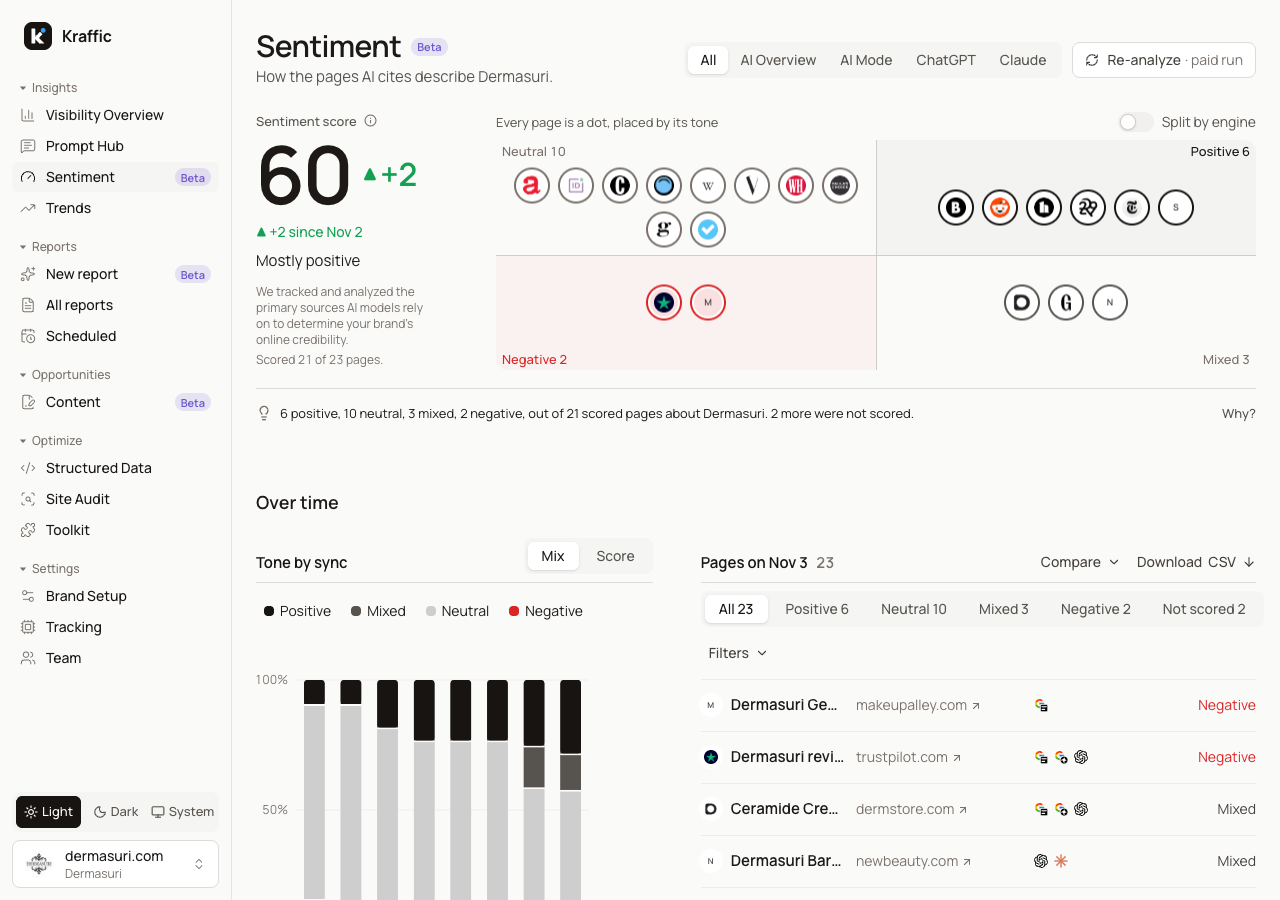
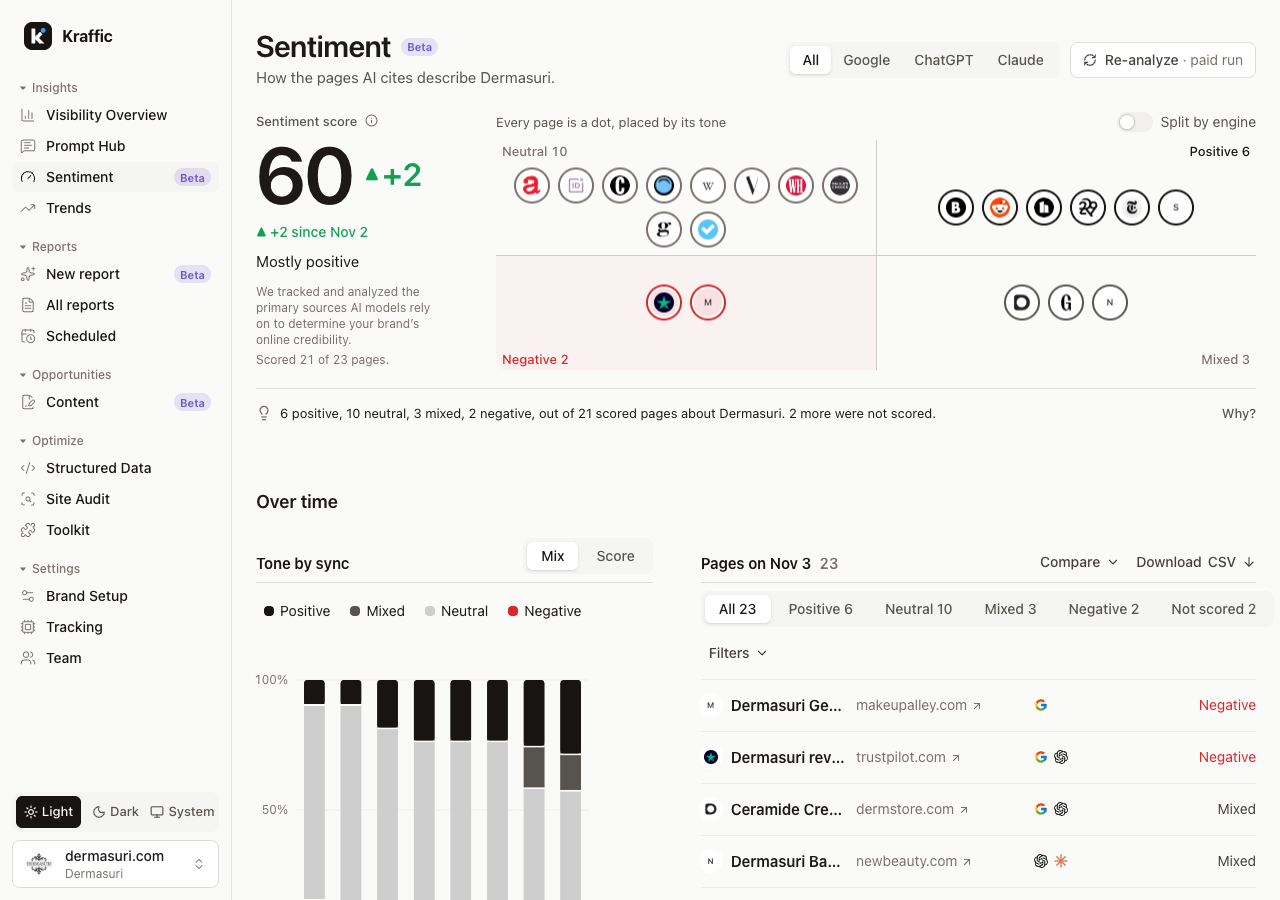
Sentiment keeps one Google engine (owner, 2026-11-04): its reputation scan covers Google, ChatGPT and Claude, so the AI Overview / AI Mode split (396d783) comes off the Sentiment page and its data: one "Google" tab with the plain Google mark, pages and themes on Google / ChatGPT / Claude again. The 

diff --git a/src/components/dashboard/VisibilityHistory.jsx b/src/components/dashboard/VisibilityHistory.jsx
@@ -268,10 +268,10 @@ function TopValueLabel({ x, y, width = 0, value }) {
 }
 
 // the legend chips show every name in full (no ellipsis). Wider screens: 14px labels; if they don't fit on one
-// line, 13px; if they still don't, the row wraps to a second line (the chart takes the height that's left). Measured
+// line, 13px; then 13px with tighter padding and gaps (1280 with 4 brands); if they still don't, the row wraps to a second line (the chart takes the height that's left). Measured
 // from off-screen copies at both sizes, again on resize and once the web fonts load. Phones: the chips scroll
 // sideways, with a soft fade on the side(s) that have more. The "All N brands" menu stays at the end either way.
-const CHIP_GAP = { md: 16, sm: 12 }
+const CHIP_GAP = { md: 16, sm: 12, xs: 6 }
 function ChipRow({ mobile, items, chip, menu, measureKey }) {
   const box = useRef(null)
   const probe = useRef(null)
@@ -289,12 +289,14 @@ function ChipRow({ mobile, items, chip, menu, measureKey }) {
       const span = (w, size) => w.reduce((a, b) => a + b, 0) + CHIP_GAP[size] * Math.max(0, w.length - 1)
       const md = widths('md')
       const sm = widths('sm')
+      const xs = widths('xs')
       const more = menuRef.current ? menuRef.current.getBoundingClientRect().width + CHIP_GAP.sm : 0
       const avail = el.clientWidth - more
       // whole names always: 14px, else 13px, else the row wraps to a second line (never cut)
       const next = span(md, 'md') <= avail ? { size: 'md', wrap: false }
         : span(sm, 'sm') <= avail ? { size: 'sm', wrap: false }
-          : { size: 'sm', wrap: true }
+          : span(xs, 'xs') <= avail ? { size: 'xs', wrap: false }
+            : { size: 'sm', wrap: true }
       setFit((f) => (f.size === next.size && f.wrap === next.wrap ? f : next))
     }
     measure()
@@ -319,10 +321,10 @@ function ChipRow({ mobile, items, chip, menu, measureKey }) {
   const fade = mobile && (edges.left || edges.right)
     ? `linear-gradient(to right, ${edges.left ? 'transparent' : '#000'}, #000 24px, #000 calc(100% - 24px), ${edges.right ? 'transparent' : '#000'})`
     : undefined
-  const small = mobile ? false : fit.size !== 'md'
+  const small = mobile ? false : fit.size === 'xs' ? 'xs' : fit.size !== 'md'
   return (
     <div ref={box} style={fade ? { maskImage: fade, WebkitMaskImage: fade } : undefined}
-      className={`relative flex min-h-9 min-w-0 flex-1 items-center ${small ? 'gap-x-3' : 'gap-x-4'} ${mobile ? 'overflow-x-auto overscroll-x-contain [scrollbar-width:none] [&::-webkit-scrollbar]:hidden' : fit.wrap ? 'flex-wrap gap-y-1' : ''}`}>
+      className={`relative flex min-h-9 min-w-0 flex-1 items-center ${small === 'xs' ? 'gap-x-1.5' : small ? 'gap-x-3' : 'gap-x-4'} ${mobile ? 'overflow-x-auto overscroll-x-contain [scrollbar-width:none] [&::-webkit-scrollbar]:hidden' : fit.wrap ? 'flex-wrap gap-y-1' : ''}`}>
       {items.map((s) => chip(s, small))}
       {menu && <span ref={menuRef} className="inline-flex shrink-0">{menu}</span>}
       {/* off-screen copies at both sizes, for the widths; clipped, so they never widen the page */}
@@ -331,6 +333,7 @@ function ChipRow({ mobile, items, chip, menu, measureKey }) {
           <div ref={probe} inert="" className="invisible absolute left-0 top-0 flex w-max whitespace-nowrap">
             {items.map((s) => <span key={`md-${s.key}`} data-probe="md" className="inline-flex">{chip(s, false, true)}</span>)}
             {items.map((s) => <span key={`sm-${s.key}`} data-probe="sm" className="inline-flex">{chip(s, true, true)}</span>)}
+            {items.map((s) => <span key={`xs-${s.key}`} data-probe="xs" className="inline-flex">{chip(s, 'xs', true)}</span>)}
           </div>
         </div>
       )}
@@ -804,7 +807,7 @@ export default function VisibilityHistory({ dataset: given = null, syncUrl = tru
     const lastOne = shown && series.length === 1 // the last visible series can't be hidden
     if (probe) {
       return (
-        <span key={s.key} className={`inline-flex h-8 shrink-0 items-center gap-2 whitespace-nowrap ${isLine ? 'px-2' : 'px-3'} font-medium ${small ? 'text-[13px] leading-[18px]' : 'text-[14px] leading-5'}`}>
+        <span key={s.key} className={`inline-flex h-8 shrink-0 items-center ${small === 'xs' ? 'gap-1.5 px-1' : `gap-2 ${isLine ? 'px-2' : 'px-3'}`} whitespace-nowrap font-medium ${small ? 'text-[13px] leading-[18px]' : 'text-[14px] leading-5'}`}>
           {marker(s, shown)}{brandName(s.label)}
         </span>
       )
@@ -821,10 +824,10 @@ export default function VisibilityHistory({ dataset: given = null, syncUrl = tru
                 onFocus={() => shown && setHovered(s.key)}
                 onBlur={() => setHovered(null)}
                 className={isLine
-                  ? `inline-flex h-8 min-w-0 shrink-0 items-center gap-2 whitespace-nowrap rounded-md px-2 ${small ? 'text-[13px] leading-[18px]' : 'text-[14px] leading-5'} outline-none transition-colors duration-150 hover:bg-[var(--tint)] focus-visible:ring-2 focus-visible:ring-focus ${
+                  ? `inline-flex h-8 min-w-0 shrink-0 items-center whitespace-nowrap rounded-md ${small === 'xs' ? 'gap-1.5 px-1' : 'gap-2 px-2'} ${small ? 'text-[13px] leading-[18px]' : 'text-[14px] leading-5'} outline-none transition-colors duration-150 hover:bg-[var(--tint)] focus-visible:ring-2 focus-visible:ring-focus ${
                     shown ? 'font-medium text-stone-900' : 'font-normal text-stone-600'
                   }`
-                  : `inline-flex h-8 min-w-0 shrink-0 items-center gap-2 whitespace-nowrap rounded-full px-3 ${small ? 'text-[13px] leading-[18px]' : 'text-[14px] leading-5'} outline-none transition-colors duration-150 focus-visible:ring-2 focus-visible:ring-focus ${
+                  : `inline-flex h-8 min-w-0 shrink-0 items-center whitespace-nowrap rounded-full ${small === 'xs' ? 'gap-1.5 px-2' : 'gap-2 px-3'} ${small ? 'text-[13px] leading-[18px]' : 'text-[14px] leading-5'} outline-none transition-colors duration-150 focus-visible:ring-2 focus-visible:ring-focus ${
                     shown ? 'bg-tint font-medium text-stone-900' : 'bg-transparent font-medium text-stone-600/60 hover:text-stone-600'
                   }`}
                 aria-label={`${brandName(s.label)}: ${shown ? 'shown' : 'hidden'}`}

diff --git a/src/pages/insights/SentimentPage.jsx b/src/pages/insights/SentimentPage.jsx
@@ -32,7 +32,7 @@ import { stackSegments } from '../../utils/mixBars'
 // States: ?mock=never | running | nopages | error | one (first run) | calm (no negative pages).
 // Fallbacks: ?themes=unlinked (themes not linked to pages) · ?quotes=none (pages analysed before quotes were kept).
 
-const ENGINES = SENTIMENT_ENGINES.map((id) => ({ id, name: ENGINE_NAME[id], short: ENGINE_NAME[id], icon: id === 'google' ? 'aio' : id })) // 'aimode' is its own PlatformIcon
+const ENGINES = SENTIMENT_ENGINES.map((id) => ({ id, name: ENGINE_NAME[id], short: ENGINE_NAME[id], icon: id }))  // the reputation scan covers Google (one engine), ChatGPT and Claude: the plain Google mark
 const engineName = (id) => ENGINES.find((e) => e.id === id)?.name
 const EngineIcon = ({ id, size = 14 }) => <PlatformIcon id={ENGINES.find((e) => e.id === id)?.icon ?? id} size={size} />
 const EngineMarks = ({ ids, size = 14 }) => (
@@ -520,7 +520,8 @@ const CHART_CHROME = 26 // the chart column above the grid: the label row (18 + 
 // dots (again: all), elsewhere they're plain text
 const CORNER = { neutral: 'left-0 top-0', positive: 'right-0 top-0', negative: 'left-0 bottom-0', mixed: 'right-0 bottom-0' }
 const QUAD_TEXT = { positive: 'text-ink', negative: 'text-negative', neutral: t3, mixed: t3 }
-const QUAD_TINT = { positive: 'color-mix(in srgb, var(--ink) 3%, transparent)', negative: 'color-mix(in srgb, var(--negative) 4%, transparent)' }
+// a faint red on Negative only; Positive has no fill (a grey fill read as a box, owner 2026-11-04)
+const QUAD_TINT = { negative: 'color-mix(in srgb, var(--negative) 4%, transparent)' }
 const QUAD_ORDER = ['neutral', 'positive', 'negative', 'mixed']
 
 // ---- the tone grid: 2×2 by tone (Neutral · Positive over Negative · Mixed), every page a dot in its tone's quadrant,
@@ -624,7 +625,7 @@ function Spectrum({ pages: listed, lit, engine, split, onDot = (p) => openDrawer
   return (
     <div ref={box} className="relative [overflow-x:clip] [overflow-clip-margin:24px]" onMouseLeave={() => setHover(null)}>
       <div className="relative" style={{ height: H }} {...(filter ? hl(explain, 'tones') : {})}>
-        {/* the quadrants: a faint cross, a tint only on Positive and Negative, no boxes */}
+        {/* the quadrants: a faint cross, a faint red only on Negative, no boxes */}
         <div className="pointer-events-none absolute inset-0" aria-hidden>
           {Object.entries(QUAD_TINT).map(([k, bg]) => {
             const [cx, cy] = QUADRANT[k]
@@ -1581,7 +1582,7 @@ function SyncPageRow({ p, change = null }) {
 // site's numbers ("negative in 5 of 6 syncs"). Rows: favicon | domain ⌄ | bar | syncs | engines. Hover: the site's
 // quote (or its tone in every sync); click: the row opens in place (quotes, tone across syncs, its pages); several can
 // be open. A column more than a row longer shows "+n more" (the drawer with all of them).
-// the engines column fits all four marks (AI Overview, AI Mode, ChatGPT, Claude: 4 × 14px + 3 × 6px gaps)
+// the engines column fits the three marks (Google, ChatGPT, Claude) with room to spare
 const SRC_GRID = 'grid grid-cols-[20px_minmax(0,1fr)_120px_48px_76px] items-center gap-x-3'
 function Sources({ runs, pagesOf, engine, brand, latestPages, swot }) {
   const columns = useMemo(() => syncColumns(runs, pagesOf, engine), [runs, engine]) // eslint-disable-line react-hooks/exhaustive-deps

diff --git a/src/pages/opportunities/list/KpiCards.jsx b/src/pages/opportunities/list/KpiCards.jsx
@@ -90,14 +90,16 @@ function FilterCard({ label, icon: Icon, selected, onClick, number, children, as
   return (
     <Card role="button" tabIndex={0} aria-pressed={selected} aria-label={`${label}: show these prompts`}
       onClick={onClick} onKeyDown={(e) => { if (e.key === 'Enter' || e.key === ' ') { e.preventDefault(); onClick() } }}
-      className={`group flex cursor-pointer flex-col px-5 py-[18px] outline-none transition-[border-color,transform] duration-[160ms] ease-out hover:-translate-y-px active:translate-y-0 focus-visible:ring-2 focus-visible:ring-focus motion-reduce:transform-none motion-reduce:transition-none ${
+      className={`@container group flex cursor-pointer flex-col px-5 py-[18px] outline-none transition-[border-color,transform] duration-[160ms] ease-out hover:-translate-y-px active:translate-y-0 focus-visible:ring-2 focus-visible:ring-focus motion-reduce:transform-none motion-reduce:transition-none ${
         selected ? '!border-ink' : 'hover:border-[var(--color-line-strong)]'}`}>
       <div className="flex h-5 items-center justify-between gap-3">
-        <span className="flex min-w-0 items-center gap-1 text-[14px] leading-5 text-stone-500">
+        {/* the label keeps its full width: the hover arrow overlays after it (no space of its own), and the icon tile
+            steps aside in a narrow card (1280 with four cards), so "Published & monitoring" is never cut */}
+        <span className="relative flex min-w-0 items-center text-[14px] leading-5 text-stone-500">
           <span className="truncate">{label}</span>
-          <ArrowRight size={14} aria-hidden className="shrink-0 -translate-x-1 opacity-0 transition-[opacity,transform] duration-[160ms] ease-out group-hover:translate-x-0 group-hover:opacity-100 group-focus-visible:translate-x-0 group-focus-visible:opacity-100 motion-reduce:transition-none" />
+          <ArrowRight size={14} aria-hidden className="pointer-events-none absolute left-full ml-1 shrink-0 -translate-x-1 opacity-0 transition-[opacity,transform] duration-[160ms] ease-out group-hover:translate-x-0 group-hover:opacity-100 group-focus-visible:translate-x-0 group-focus-visible:opacity-100 motion-reduce:transition-none" />
         </span>
-        <span className="-my-1.5 grid h-8 w-8 shrink-0 place-items-center rounded-lg bg-tint text-stone-600" aria-hidden><Icon size={16} /></span>
+        <span className="-my-1.5 grid h-8 w-8 shrink-0 place-items-center rounded-lg bg-tint text-stone-600 @max-[224px]:hidden" aria-hidden><Icon size={16} /></span>
       </div>
       {/* number + context take the width they need (never cut off); the visual gets what's left, right-aligned, and
           hides when it can't fit whole (round 9) */}

diff --git a/src/utils/sentimentSections.test.js b/src/utils/sentimentSections.test.js
@@ -63,7 +63,7 @@ test('compare CSV: the columns in order, the brand on every row, quotes and comm
   const [head, line] = csv.trim().split('\n')
   assert.equal(head, 'url,title,domain,engines,tone_from,tone_to,change,brand')
   assert.deepEqual(CSV_COLUMNS, head.split(','))
-  assert.equal(line, 'https://a.com/a,"Say ""hi"", ok",a.com,AI Overview,positive,,dropped,Finance of America', 'engines by name: AI Overview, not Google search')
+  assert.equal(line, 'https://a.com/a,"Say ""hi"", ok",a.com,Google,positive,,dropped,Finance of America', 'engines by name: Google, not Google search')
   assert.equal(compareFilename('Finance of America', '2026-10-28', '2026-10-31'), 'sentiment-finance-of-america-2026-10-28-vs-2026-10-31.csv')
 })
 
@@ -170,7 +170,7 @@ test('sync CSV: what the list shows (filters applied), engines by name, the tone
   const csv = syncCsv(shown, { brand: 'FoA', fresh, prevTones: toneById(oct28) }).trim().split('\n')
   assert.deepEqual(csv[0].split(','), SYNC_CSV_COLUMNS)
   assert.equal(csv.length, 3, 'header + the two neutral pages only')
-  assert.equal(csv[1], 'https://a.com/a,Title a.com,a.com,AI Overview,neutral,,FoA')
+  assert.equal(csv[1], 'https://a.com/a,Title a.com,a.com,Google,neutral,,FoA')
   assert.equal(csv[2], 'https://d.com/a,Title d.com,d.com,ChatGPT,neutral,yes,FoA')
   assert.ok(!csv[0].includes('tone_before') && CSV_COLUMNS.includes('tone_from') && CSV_COLUMNS.includes('tone_to'), 'tone_from / tone_to in the Compare CSV only')
   assert.equal(syncFilename('Finance of America', '2026-10-28'), 'sentiment-finance-of-america-2026-10-28.csv')
@@ -293,7 +293,7 @@ test('This sync: Positive · Mixed · Neutral · Negative add up to 100%, Not sc
   assert.equal(p.mixed, 6) // 1 of the 17 scored pages, not of 18
   assert.equal(unscoredNote(col.counts), '1 page not scored')
   const csv = syncCsv(col.pages, { brand: 'Acme' })
-  assert.match(csv, /^https:\/\/site2-0\.example\/a,Title site2-0\.example,site2-0\.example,AI Overview,mixed,,Acme$/m)
+  assert.match(csv, /^https:\/\/site2-0\.example\/a,Title site2-0\.example,site2-0\.example,Google,mixed,,Acme$/m)
   assert.match(csv, /,unscored,,Acme$/m)
 })
 

diff --git a/src/data/sentiment.js b/src/data/sentiment.js
@@ -300,7 +300,7 @@ const RUN_TIMES = [
 // every page cited for the brand in any run. tones: the page's tone in each run above, one letter per run
 // (P positive · N neutral · M mixed · G negative · U Not scored, the page couldn't be read · . not cited that run).
 // Older runs (before Nov 2) have no Mixed or Not scored pages: the old scoring stored both as neutral.
-// engines: Google AI Overview ('google'), Google AI Mode ('aimode', AI_MODE below), ChatGPT and Claude. Pages analysed before quotes were kept, and pages that couldn't be
+// engines: Google search, ChatGPT and Claude only. Pages analysed before quotes were kept, and pages that couldn't be
 // read, have none (noQuote): they show their title and "Quote appears after the next analysis".
 const S = (text, tone) => ({ text, tone, mark: null })
 const CATALOGUE = [
@@ -363,9 +363,6 @@ const CATALOGUE = [
     S('Two of our testers broke out within a week of starting the Dermasuri serum.', 'negative')] },
 ]
 const TONE_CODE = { P: 'positive', N: 'neutral', M: 'mixed', G: 'negative', U: 'unscored' }
-// Google is two engines: the pages AI Mode also cites (all of them pages AI Overview cites too), listed after 'google'
-const AI_MODE = new Set(['p1', 'p2', 'p3', 'p5', 'p10', 'p13', 'p16', 'p19', 'p23'])
-CATALOGUE.forEach((p) => { if (AI_MODE.has(p.id)) p.engines = p.engines.flatMap((e) => (e === 'google' ? ['google', 'aimode'] : [e])) })
 
 // each run's own pages, as production stores them: run id → [page]
 const BY_RUN = new Map(RUN_TIMES.map(([id], i) => [id, CATALOGUE

diff --git a/src/data/sentiment.test.js b/src/data/sentiment.test.js
@@ -41,9 +41,9 @@ test('engine filter and per-engine rows', () => {
   assert.ok(pagesOn(PAGES, 'claude').every((p) => p.engines.includes('claude')))
 })
 
-test('engines: Google AI Overview, Google AI Mode, ChatGPT and Claude (what production splits by)', () => {
+test('engines: only Google search, ChatGPT and Claude (what production splits by)', () => {
   const ids = new Set(PAGES.flatMap((p) => p.engines))
-  assert.deepEqual([...ids].sort(), ['aimode', 'chatgpt', 'claude', 'google'])
+  assert.deepEqual([...ids].sort(), ['chatgpt', 'claude', 'google'])
 })
 
 test('themes: the four SWOT groups, each with themes', () => {
@@ -242,7 +242,7 @@ test('the mock covers every tone, the scoring change, new and dropped pages, and
   // the score moves up, down and not at all between runs (the arrow and the "since …" line)
   const scores = withScores(RUNS).map((r) => r.delta).filter((d) => d != null)
   assert.ok(scores.some((d) => d > 0) && scores.some((d) => d < 0) && scores.some((d) => d === 0))
-  assert.deepEqual([...new Set(PAGES.flatMap((p) => p.engines))].sort(), ['aimode', 'chatgpt', 'claude', 'google'])
+  assert.deepEqual([...new Set(PAGES.flatMap((p) => p.engines))].sort(), ['chatgpt', 'claude', 'google'])
   assert.ok(PAGES.some((p) => p.url === null), 'a page with no stored URL (no link)')
   assert.ok(PAGES.some((p) => p.noQuote), 'a page with no quote')
 })

diff --git a/src/data/insights.js b/src/data/insights.js
@@ -69,7 +69,6 @@ const sentFull = {
   answers: 115, previousAnswers: 108,
   byEngine: [ // platforms[] SentimentRow
     { engine: 'aio', positive: 26, neutral: 8, negative: 2 },
-    { engine: 'aimode', positive: 14, neutral: 5, negative: 2 },
     { engine: 'chatgpt', positive: 11, neutral: 5, negative: 3 },
     { engine: 'gemini', positive: 7, neutral: 4, negative: 1 },
     { engine: 'claude', positive: 0, neutral: 0, negative: 0 },
@@ -94,7 +93,7 @@ const sentFull = {
 const sentSmall = {
   series: [tone(SYNCS[4], 9, 5, 2), tone(SYNCS[5], 12, 4, 2)],
   answers: 32, previousAnswers: 27,
-  byEngine: [{ engine: 'aio', positive: 8, neutral: 2, negative: 1 }, { engine: 'aimode', positive: 4, neutral: 1, negative: 1 }, { engine: 'chatgpt', positive: 3, neutral: 1, negative: 1 }, { engine: 'gemini', positive: 1, neutral: 1, negative: 0 }, { engine: 'claude', positive: 0, neutral: 0, negative: 0 }],
+  byEngine: [{ engine: 'aio', positive: 8, neutral: 2, negative: 1 }, { engine: 'chatgpt', positive: 3, neutral: 1, negative: 1 }, { engine: 'gemini', positive: 1, neutral: 1, negative: 0 }, { engine: 'claude', positive: 0, neutral: 0, negative: 0 }],
   brands: [{ ...sentFull.brands[0], positive: 67, negative: 11, prevNet: null }], // competitors not read yet
   negative: sentFull.negative.slice(0, 2),
 }

diff --git a/src/pages/insights/SentimentPage.test.js b/src/pages/insights/SentimentPage.test.js
@@ -68,10 +68,10 @@ test('the tone grid is about 240px and as tall as the score column (fitH), never
   assert.match(page, /const CHART_CHROME = 26 /, 'no axis under the grid: only the label row above it')
 })
 
-test('the tone grid: a faint --line-strong cross, tint only on Positive and Negative, labels in the outer corners', () => {
+test('the tone grid: a faint --line-strong cross, a faint red only on Negative (no fill on Positive), labels in the outer corners', () => {
   assert.equal((spectrum.match(/border-line-strong/g) || []).length, 2, 'one vertical and one horizontal line, no boxes')
   assert.doesNotMatch(spectrum, /border-\[var\(--div\)\]/)
-  assert.match(page, /const QUAD_TINT = \{ positive: 'color-mix\(in srgb, var\(--ink\) 3%, transparent\)', negative: 'color-mix\(in srgb, var\(--negative\) 4%, transparent\)' \}/)
+  assert.match(page, /const QUAD_TINT = \{ negative: 'color-mix\(in srgb, var\(--negative\) 4%, transparent\)' \}/)
   assert.match(page, /const CORNER = \{ neutral: 'left-0 top-0', positive: 'right-0 top-0', negative: 'left-0 bottom-0', mixed: 'right-0 bottom-0' \}/)
   assert.match(page, /const QUAD_TEXT = \{ positive: 'text-ink', negative: 'text-negative', neutral: t3, mixed: t3 \}/)
   assert.doesNotMatch(spectrum, />Overall<|>Even</, 'no Overall marker, no Even label')

diff --git a/src/utils/spectrum.test.js b/src/utils/spectrum.test.js
@@ -118,7 +118,7 @@ test('a theme quotes the sentence about it, and lists its engines in order', () 
   assert.equal(cs.match, null)
   assert.equal(themeQuote(cs.pages[0], cs), tellingSentence(cs.pages[0]))
   assert.match(themeQuote(cs.pages[0], { ...cs, match: /customer service/i }).text, /Customer service/, 'with a match: the sentence about it')
-  assert.deepEqual(themeEngines(pumps), ['google', 'aimode', 'chatgpt']) // AI Overview before AI Mode, then the rest
+  assert.deepEqual(themeEngines(pumps), ['google', 'chatgpt'])
 })
 
 test('lead quote: the top Hurting theme, its quote about it, and its other pages', () => {
@@ -264,7 +264,7 @@ test('split plan: one dot per citing engine, the original to the first lane, cop
   assert.deepEqual(merged.map((d) => d.shown), [true, false, true, true])
   assert.ok(merged.every((d) => d.lane === 'all'))
   // the mock: every page's copies = its engines
-  const plan = dotPlan(PAGES, [{ id: 'google' }, { id: 'aimode' }, { id: 'chatgpt' }, { id: 'claude' }], true)
+  const plan = dotPlan(PAGES, engines, true)
   assert.equal(plan.length, PAGES.reduce((n, p) => n + p.engines.length, 0))
 })
 

diff --git a/src/utils/sentimentSections.js b/src/utils/sentimentSections.js
@@ -4,10 +4,9 @@
 // The app keeps this file as lib/sentiment-sections.js (same function names). Tested in sentimentSections.test.js.
 import { TONES, TONE_LABEL, countTones, freshPageIds, scoreOf, sortPages, tonePercents } from '../data/sentiment.js'
 
-// the engines a sentiment scan runs (no Gemini), and their names everywhere on the page and in the CSVs. Google is two
-// engines: 'google' = Google AI Overview, 'aimode' = Google AI Mode.
-export const SENTIMENT_ENGINES = ['google', 'aimode', 'chatgpt', 'claude']
-export const ENGINE_NAME = { google: 'AI Overview', aimode: 'AI Mode', chatgpt: 'ChatGPT', claude: 'Claude' }
+// the engines a sentiment scan runs (no Gemini), and their names everywhere on the page and in the CSVs
+export const SENTIMENT_ENGINES = ['google', 'chatgpt', 'claude']
+export const ENGINE_NAME = { google: 'Google', chatgpt: 'ChatGPT', claude: 'Claude' }
 
 // ---- New: the one rule behind the chip, "New only" and the tooltip's "n new pages" -----------------------------------
 // A page is New on a sync when its address was never cited for the brand in ANY earlier sync, on any engine. Pages are

diff --git a/src/utils/spectrum.js b/src/utils/spectrum.js
@@ -142,7 +142,7 @@ export function capRows(list, expanded, cap = 5) {
 export const toggleOpen = (open, key) => (open === key ? null : key)
 
 // engines behind a theme's pages, in a fixed order
-export const themeEngines = (theme, order = ['google', 'aimode', 'chatgpt', 'claude']) => order.filter((e) => theme.pages.some((p) => p.engines.includes(e)))
+export const themeEngines = (theme, order = ['google', 'chatgpt', 'claude']) => order.filter((e) => theme.pages.some((p) => p.engines.includes(e)))
 
 // ---- Over time ----------------------------------------------------------------------------------------------------
 

diff --git a/src/components/dashboard/icons.jsx b/src/components/dashboard/icons.jsx
@@ -57,6 +57,8 @@ const marks = {
 // Platform marks: 16px, no background square.
 export function PlatformIcon({ id, size = 16 }) {
   if (id === 'aio' || id === 'aimode') return <GoogleEngineIcon mode={id} size={size} />
+  // plain Google (Sentiment's reputation scan: Google as one engine, not split)
+  if (id === 'google') return <GoogleIcon size={size} />
   return (
     <svg width={size} height={size} viewBox="0 0 24 24" aria-hidden className="shrink-0">
       {marks[id]}
